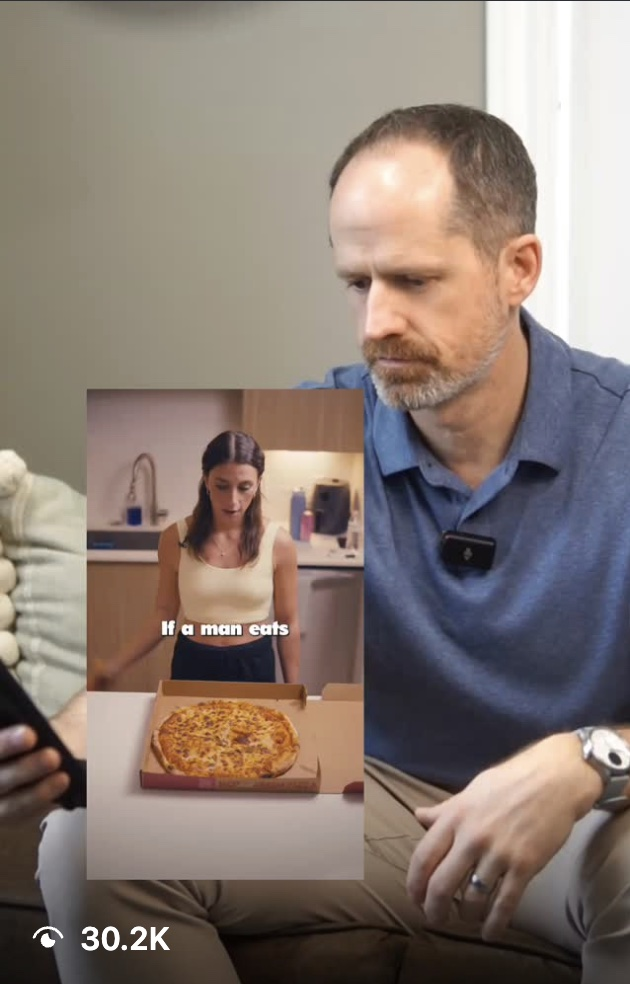
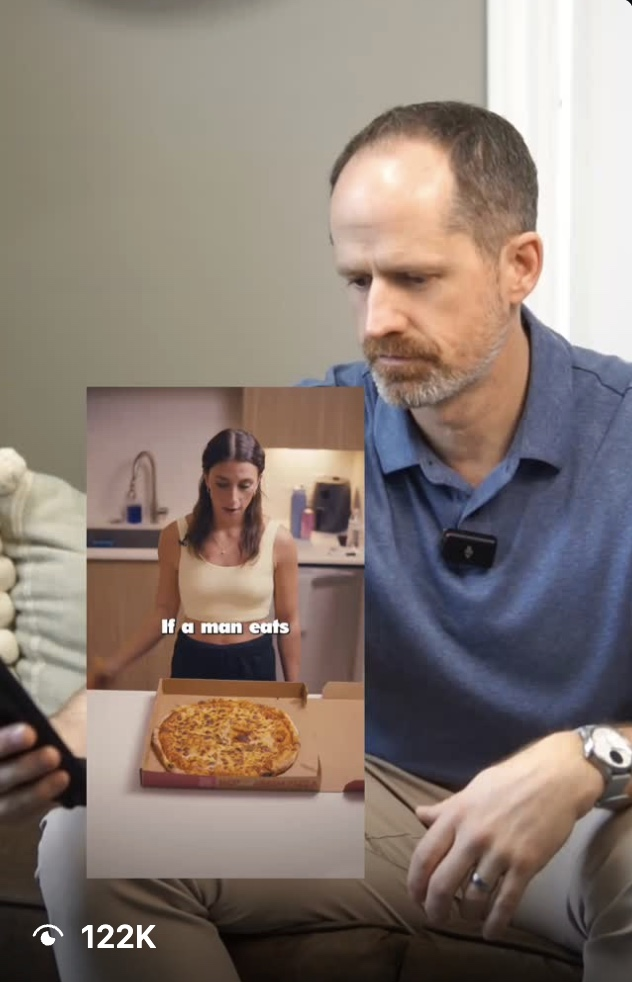
content(doctors): update Spencer after-shot to 122K reel
Replace the Spencer "after" screenshot with the reel that reached 122K
views, and update the section copy from 30.2K to 122K.

diff --git a/src/pages/LandingPageDoctors.tsx b/src/pages/LandingPageDoctors.tsx
@@ -195,7 +195,7 @@ export default function LandingPageDoctors() {
         <div className="dc-wrap">
           <div className="dc-head center">
             <span className="dc-eyebrow">Another result</span>
-            <h2 className="dc-h2">Two years of little traction. Then <span className="dc-teal-tx">30.2K in four posts.</span></h2>
+            <h2 className="dc-h2">Two years of little traction. Then <span className="dc-teal-tx">122K in four posts.</span></h2>
           </div>
           <div className="dc-cmp">
             <figure className="dc-cmp-fig">
@@ -205,7 +205,7 @@ export default function LandingPageDoctors() {
             <span className="dc-cmp-arrow">→</span>
             <figure className="dc-cmp-fig">
               <span className="dc-cmp-lbl teal">After · 4 posts in</span>
-              <img className="dc-cmp-after" src={spencerAfter} alt="Spencer's first post to break 30.2K views" loading="lazy" />
+              <img className="dc-cmp-after" src={spencerAfter} alt="Spencer's post that reached 122K views" loading="lazy" />
             </figure>
           </div>
           <div style={{ textAlign: "center" }}>
